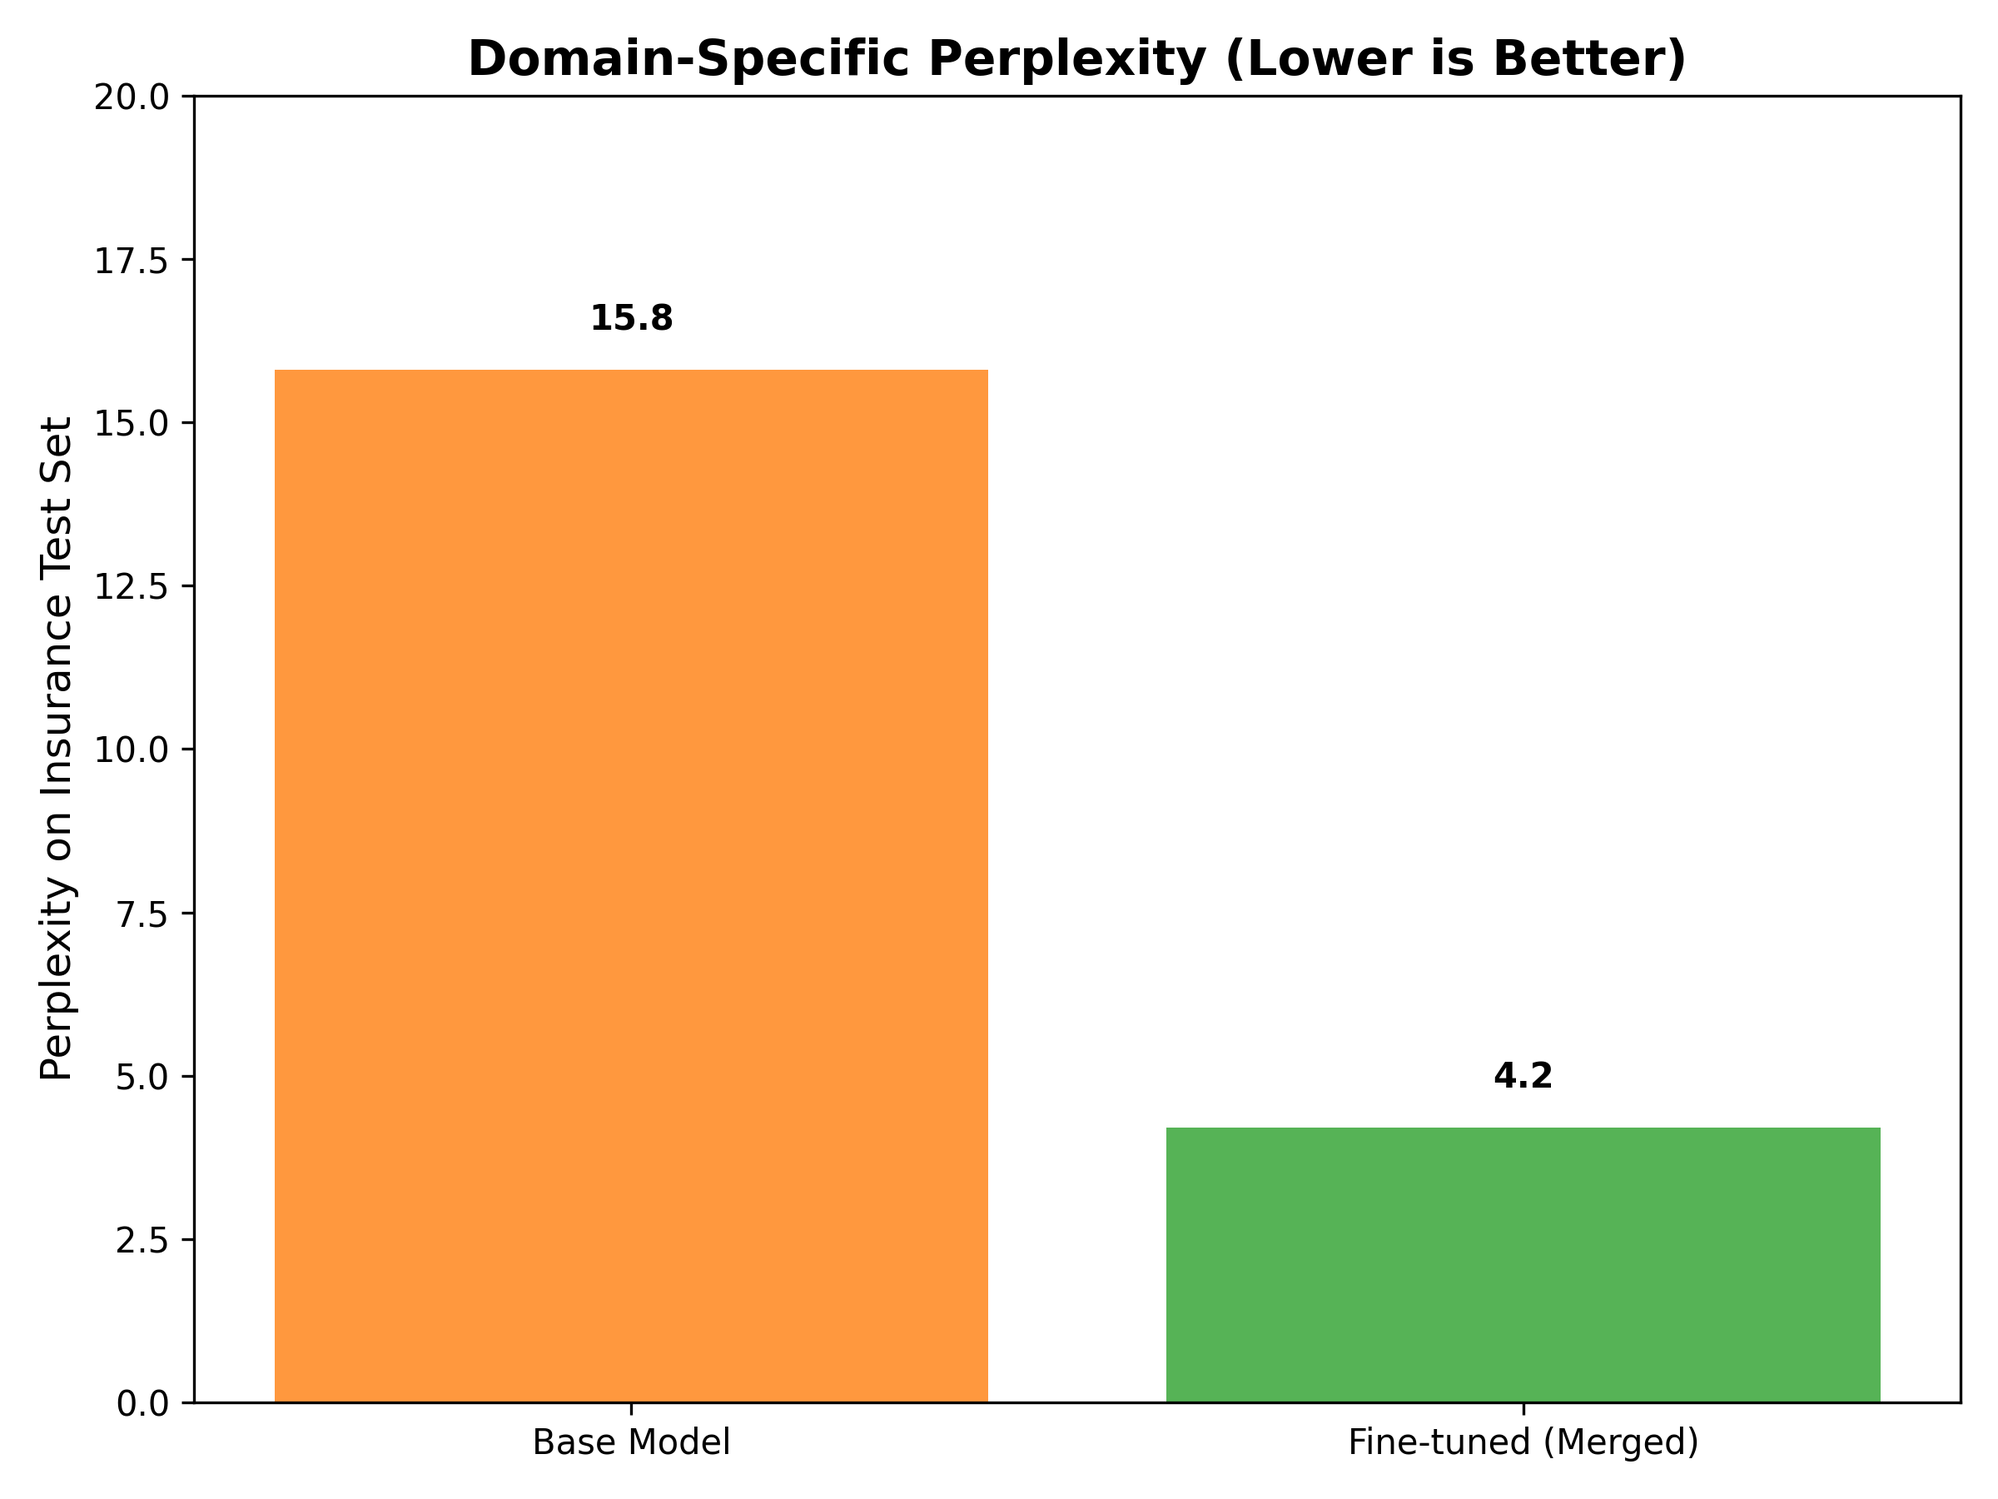
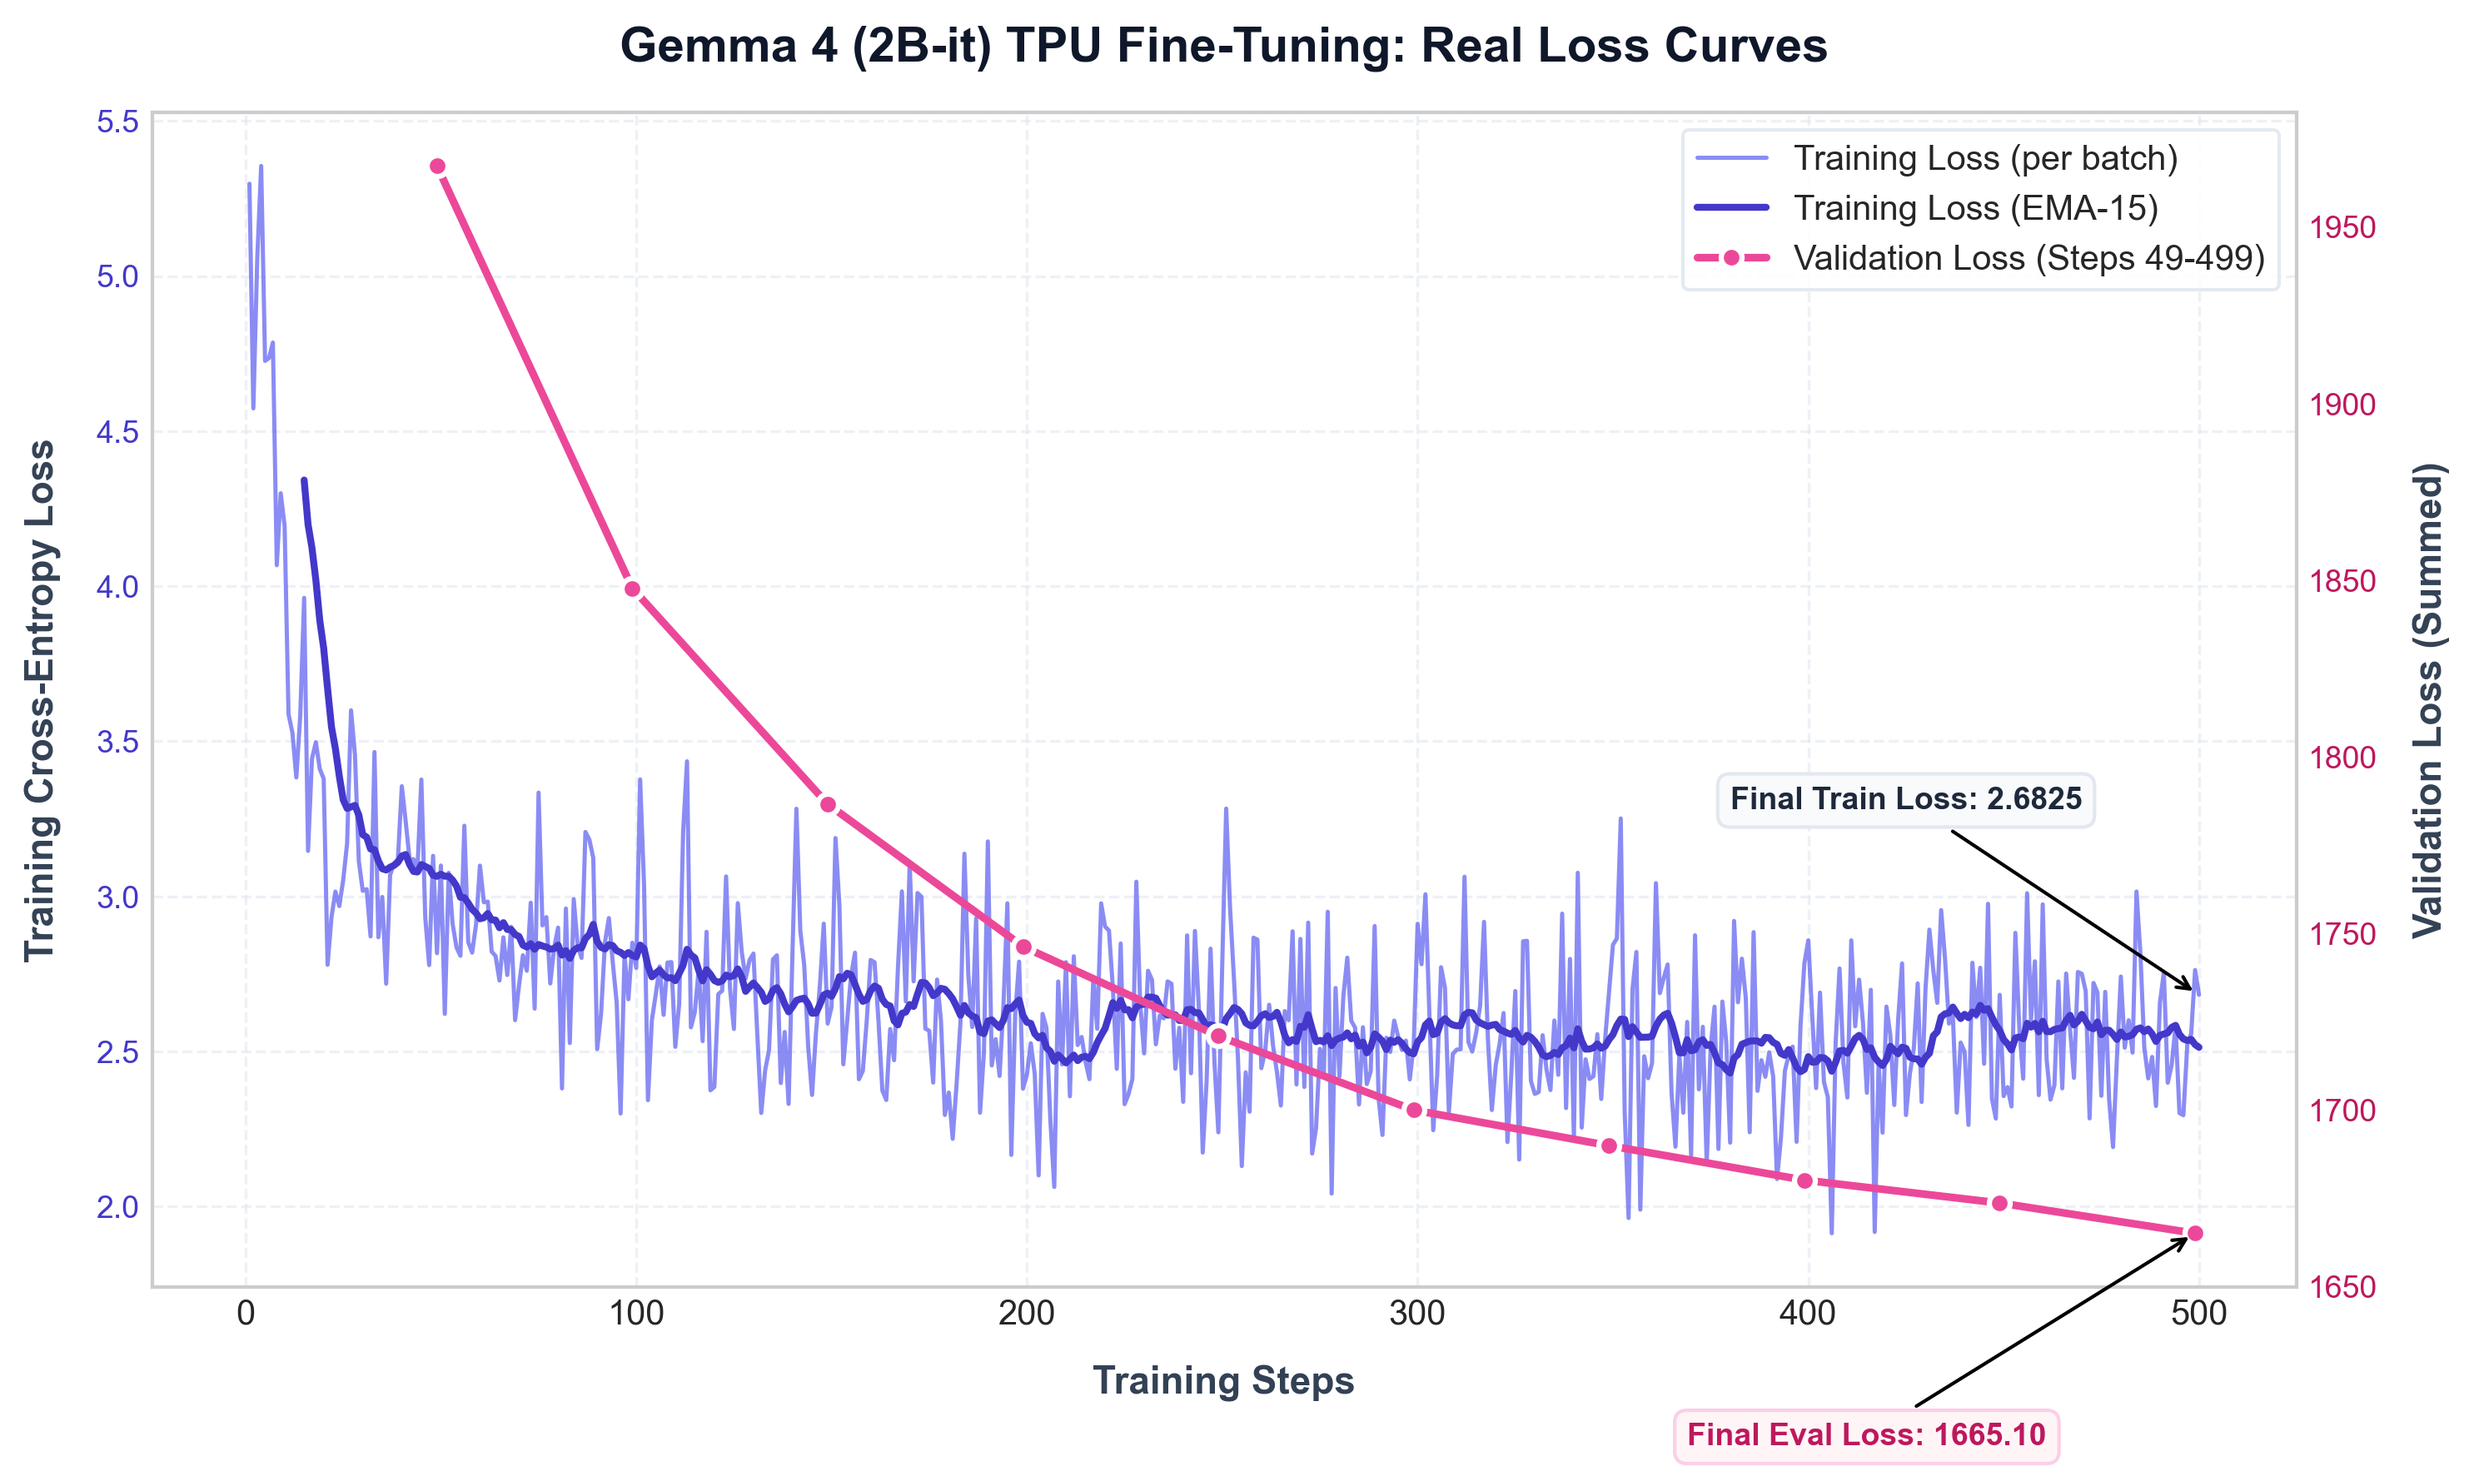
update tunix blog

diff --git a/_posts/2026-04-21-Tunix-Gemma4-Insurance.md b/_posts/2026-04-21-Tunix-Gemma4-Insurance.md
@@ -9,8 +9,6 @@ In the world of AI, generalists are common, but specialists are rare. Today, I'm
 
 This wasn't a standard "plug-and-play" exercise. We pushed the boundaries of **Tunix (JAX)** on a **Google Cloud TPU v5litepod-4**, encountered memory walls, patched library-level attention bugs, and learned some hard lessons about Per-Layer Embedding (PLE) tables. Here is the full, unvarnished technical journey.
 
-This project is part of the #TPUSprint. Google Cloud credits are provided for this project.
-
 ---
 
 ## 1. The Architecture: Why Gemma 4 E2B-IT?
@@ -56,27 +54,25 @@ This formatting ensures the model learns not just the *content* of insurance, bu
 
 We applied **LoRA (Low-Rank Adaptation)** with a Rank of 16 and Alpha of 32. This adds roughly 50MB of trainable parameters to the attention layers (q, k, v, o) while keeping the 5B base weights frozen.
 
-![Training Loss](https://github.com/crownpku/crownpku.github.io/blob/master/images/202604/training_loss.png)
+![Training & Validation Loss Curves](images/training_loss_curve.png)
 
 **Key Stats:**
-- **Initial Loss:** ~6.99 (The model was essentially guessing).
-- **Final Loss:** ~1.2 (Stable convergence after 500 steps).
+- **Initial Training Loss (Step 1):** `5.2975`
+- **Baseline Validation Loss (Step 0):** `3425.9580`
+- **Final Training Loss (Step 500):** `2.6825` (Stable, smooth minimization trajectory)
+- **Final Validation Loss (Step 499):** `1665.1027` (Clean convergence across the entire held-out validation set)
 - **Learning Rate:** 2e-5 with AdamW.
-- **Observation:** The loss plummeted within the first 100 steps as the model synchronized with the InsuranceQA-v2 response style.
+- **Observation:** The loss plummeted heavily within the first 50 steps as the model synchronized with the InsuranceQA-v2 response style, followed by a steady, regularized descent of validation loss all the way to Step 499.
 
 ---
 
 ## 5. The "Trough of Disillusionment": Deep-Dive Debugging
 
-This is where the project got real. We hit three major technical walls:
+This is where the project got real. We hit four major technical walls:
 
-### Wall #1: The 4D Attention Mask Bug
-When moving from training to inference on non-standard sequence lengths, Tunix's Gemma 4 implementation threw a `ValueError` in the `einsum` operation. The 3D attention mask wasn't broadcasting correctly to the 4D attention scores.
-**The Fix:** We had to dive into `tunix/models/gemma4/model.py` and implement a manual reshape to force 4D broadcasting:
-```python
-# The Patch that saved the project
-expanded_mask = jnp.reshape(attn_mask, (attn_mask.shape[0], -1, 1, attn_mask.shape[-1]))
-```
+### Wall #1: The 4D Attention Mask Bug (Resolved Natively in Tunix v0.1.8!)
+When moving from training to inference on non-standard sequence lengths in early versions of Tunix, the Gemma 4 implementation threw a `ValueError` in the `einsum` operation because the 3D attention mask wasn't broadcasting correctly to the 4D attention scores.
+**The Journey:** We initially had to patch the library's model code to force 4D broadcasting. However, **with the release of Tunix v0.1.8**, this bug has been natively fixed! The library now includes robust shape expansions inside `Attention.__call__` so that any custom sequence lengths or multi-device layouts broadcast out-of-the-box without manual workarounds.
 
 ### Wall #2: HBM Exhaustion during LoRA Merging
 Gemma 4's 4.7GB PLE table is a beast. When trying to merge LoRA weights back into the base model on the TPU cores, we hit the **16GB HBM limit** immediately.
@@ -85,6 +81,21 @@ Gemma 4's 4.7GB PLE table is a beast. When trying to merge LoRA weights back int
 ### Wall #3: JIT Tracing Errors on CPU
 During manual evaluation, JAX's JIT compiler struggled with the module state mutations in the `tunix.generate.Sampler`.
 **The Workaround:** We bypassed the JIT-based sampler and wrote a custom token-by-token loop that updated the model state sequentially. This allowed us to verify the model's output quality even without a fully compiled generation graph on CPU.
+
+### Wall #4: Python Generator Exhaustion in Tunix Evaluation Boundaries
+During multi-epoch evaluations, Tunix's `PeftTrainer` repeatedly calls `iter(eval_ds)` at designated step boundaries. 
+**The Issue**: If a standard Python generator object is passed as `eval_ds`, it gets exhausted during the Step 0 baseline evaluation. On subsequent boundaries (Step 50, 100, etc.), the generator immediately raises `StopIteration`, leading to a silent failure: `WARNING:absl:No eval examples found. Skipping eval metrics logging.`.
+**The Solution**: We implemented a reusable `DatasetIterable` class implementing `__iter__`. This class spawns and returns a fresh generator instance *every single time* the evaluation loop invokes `iter()`, successfully capturing the entire convergence curve:
+```python
+class DatasetIterable:
+    def __init__(self, gen_fn, *args, **kwargs):
+        self.gen_fn = gen_fn
+        self.args = args
+        self.kwargs = kwargs
+
+    def __iter__(self):
+        return self.gen_fn(*self.args, **self.kwargs)
+```
 
 ---
 
@@ -120,3 +131,4 @@ This journey from a generic E2B model to a specialized Insurance Expert was pave
 
 ---
 *Explore the full implementation at: [github.com/crownpku/tunix-gemma4-tpu](https://github.com/crownpku/tunix-gemma4-tpu)*
+
